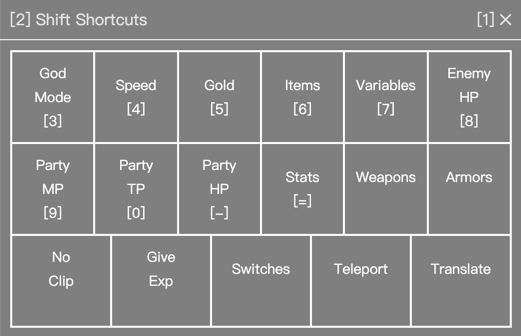
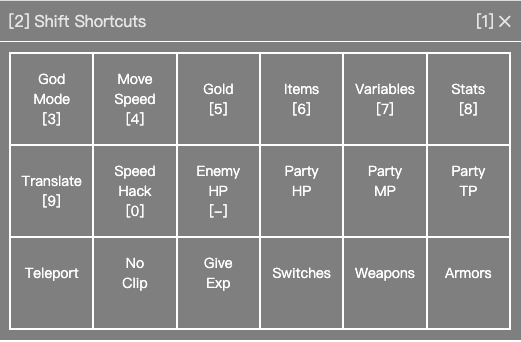
feat: speed hack

diff --git a/src/App.ts b/src/App.ts
@@ -5,7 +5,7 @@ import MV from './core/mv'
 import {space2line} from './core/dom'
 import Items from './module/Items'
 import Gold from './module/Gold'
-import Speed from './module/Speed'
+import MoveSpeed from './module/MoveSpeed'
 import Variables from './module/Variables'
 import PartyHP from './module/PartyHP'
 import PartyMP from './module/PartyMP'
@@ -19,6 +19,7 @@ import GiveExp from './module/GiveExp'
 import Switches from './module/Switches'
 import Teleport from './module/Teleport'
 import Translate from './module/Translate'
+import SpeedHack from './module/SpeedHack'
 
 // eslint-disable-next-line
 export type RenderClass<T extends Renderer = any> = T
@@ -55,7 +56,7 @@ export default class App extends Renderer<HTMLDivElement> {
       module: GodMode as RenderClass,
     },
     {
-      module: Speed as RenderClass,
+      module: MoveSpeed as RenderClass,
     },
     {
       module: Gold as RenderClass,
@@ -68,6 +69,12 @@ export default class App extends Renderer<HTMLDivElement> {
     },
     {
       module: Stat as RenderClass,
+    },
+    {
+      module: Translate as RenderClass,
+    },
+    {
+      module: SpeedHack as RenderClass,
     },
     {
       module: EnemyHP as RenderClass,
@@ -83,9 +90,6 @@ export default class App extends Renderer<HTMLDivElement> {
     },
     {
       module: Teleport as RenderClass,
-    },
-    {
-      module: Translate as RenderClass,
     },
     {
       module: NoClip as RenderClass,
@@ -187,7 +191,7 @@ export default class App extends Renderer<HTMLDivElement> {
   }
 
   private _shiftShortcuts = () => {
-    const maxFactor = Math.floor(App.Modules.length / App.ModulesKeymaps.length)
+    const maxFactor = Math.floor(App.Modules.length / App.ModulesKeymaps.length) - 1
     this._moduleIndexFactor = this._moduleIndexFactor >= maxFactor ? 0 : (this._moduleIndexFactor + 1)
     this._showHome()
   }

diff --git a/src/component/AmountSelector.ts b/src/component/AmountSelector.ts
@@ -73,31 +73,32 @@ export default class AmountSelector extends Renderer<HTMLDivElement> {
 
   constructor(props?: IAmountSelectorProps) {
     super()
-    this.props = props || {}
 
-    this.props.precision = (this.props.precision || 0) < 0 ? 0 : this.props.precision
-    this.props.keymap = this.props.keymap || AmountSelector.KeyMap
+    this.props = props = props || {}
 
-    this.props.increaseFn = this.props.increaseFn || AmountSelector.defaultIncreaseFn
-    this.props.decreaseFn = this.props.decreaseFn || AmountSelector.defaultDecreaseFn
+    props.precision = (props.precision || 0) < 0 ? 0 : props.precision
+    props.keymap = props.keymap || AmountSelector.KeyMap
+    props.keymap = props.keymap || AmountSelector.KeyMap
+    props.increaseFn = props.increaseFn || AmountSelector.defaultIncreaseFn
+    props.decreaseFn = props.decreaseFn || AmountSelector.defaultDecreaseFn
 
-    this.input.value = this.props.default || ''
+    this.input.value = (props.default === undefined ? '' : props.default)
 
     const inputDom = this.input.render() as HTMLInputElement
     inputDom.addEventListener('change', this._onChange)
     inputDom.classList.add('input')
     inputDom.type = 'number'
     inputDom.style.textAlign = 'center'
-    if (this.props.readOnly) {
-      inputDom.readOnly = this.props.readOnly
+    if (props.readOnly) {
+      inputDom.readOnly = props.readOnly
       inputDom.style.borderColor = 'transparent'
     }
 
     this.row = new ScrollSelect({
-      keymap: this.props.keymap,
+      keymap: props.keymap,
       leftText: '-',
       rightText: '+',
-      ...this.props.scrollSelectorProps,
+      ...props.scrollSelectorProps,
       center: inputDom,
       onLeft: this._onLess,
       onRight: this._onMore,

diff --git a/src/module/MoveSpeed.ts b/src/module/MoveSpeed.ts
@@ -3,13 +3,13 @@ import ScrollSelect from '../component/ScrollSelect'
 import AmountSelector from '../component/AmountSelector'
 import Switch from '../component/Switch'
 
-export default class Speed extends Renderer<HTMLDivElement> {
+export default class MoveSpeed extends Renderer<HTMLDivElement> {
 
   static KeyMap = {
     speedLock: KEY_MAPS.Digit7,
   }
 
-  static MyName = 'Speed'
+  static MyName = 'Move Speed'
 
   private static readonly DEFAULT_SPEED = 4
 
@@ -33,7 +33,7 @@ export default class Speed extends Renderer<HTMLDivElement> {
       // Speed.speed = $gamePlayer._moveSpeed
       Object.defineProperty($gamePlayer, '_moveSpeed', {
         configurable: true,
-        get: () => window.__cheat_speed || Speed.DEFAULT_SPEED,
+        get: () => window.__cheat_speed || MoveSpeed.DEFAULT_SPEED,
         set: (value: number) => {
           if (!window.__cheat_speedLocked) {
             window.__cheat_speed = value
@@ -47,7 +47,7 @@ export default class Speed extends Renderer<HTMLDivElement> {
     super()
 
     if (window.__cheat_speed === undefined) {
-      window.__cheat_speed = $gamePlayer._moveSpeed || Speed.DEFAULT_SPEED
+      window.__cheat_speed = $gamePlayer._moveSpeed || MoveSpeed.DEFAULT_SPEED
     }
 
     this.amount = new AmountSelector({
@@ -79,7 +79,7 @@ export default class Speed extends Renderer<HTMLDivElement> {
     this.speedLocker = new Switch({
       label: 'Lock Speed',
       default: window.__cheat_speedLocked,
-      keymap: Speed.KeyMap.speedLock,
+      keymap: MoveSpeed.KeyMap.speedLock,
       onHTML: 'locked',
       offHTML: 'unlocked',
       onChange: value => {

diff --git a/src/module/SpeedHack.ts b/src/module/SpeedHack.ts
@@ -1,0 +1,59 @@
+import {Renderer} from '../core/renderer'
+import AmountSelector from '../component/AmountSelector'
+import ScrollSelect from '../component/ScrollSelect'
+
+export default class SpeedHack extends Renderer<HTMLDivElement> {
+  static MyName = 'Speed Hack'
+
+  private _timerId = -1
+
+  private readonly countSelector = new AmountSelector({
+    default: 0,
+    precision: 0,
+    min: 0,
+    max: 1000,
+    keymap: ScrollSelect.KeyMap34,
+    increaseFn: v => v + 50,
+    decreaseFn: v => v - 50,
+    onChange: () => {
+      this._render()
+    },
+  })
+
+  private readonly _render = () => {
+    clearTimeout(this._timerId)
+    const count = this.countSelector.value
+    if (count > 0) {
+      this._timerId = setTimeout(() => {
+        SceneManager.updateScene()
+        this._render()
+      }, 1000 / count) as unknown as number
+    }
+  }
+
+  constructor() {
+    super()
+
+    // this.render()
+  }
+
+  dispose() {
+    super.dispose()
+
+    this.countSelector.dispose()
+
+    clearTimeout(this._timerId)
+  }
+
+  render(): HTMLDivElement {
+    const container = document.createElement('div')
+
+    const label = document.createElement('div')
+    label.innerHTML = '<b>This is how many more render count per second base on the original fps. <br>This may cause frame drop. <br>Leaving this module will stop speed-hacking.</b>'
+    container.append(label)
+
+    container.append(this.countSelector.render())
+
+    return container
+  }
+}

diff --git a/src/module/GodMode.ts b/src/module/GodMode.ts
@@ -87,7 +87,7 @@ export default class GodMode extends Renderer {
     const notice = document.createElement('div')
     notice.style.color = 'red'
     notice.style.paddingBottom = '10px'
-    notice.innerHTML = 'May cause "Memory Leak", restart game to solve this'
+    notice.innerHTML = 'This function may cause "Memory Leak", restart game to solve this problem for now.'
     container.append(notice)
 
     container.append(this.actor.render())

diff --git a/src/mv.d.ts b/src/mv.d.ts
@@ -144,6 +144,7 @@ declare global {
   }
 
   class Game_Weapon extends Game_Item {}
+
   class Game_Armor extends Game_Item {}
 
   class Data_System {
@@ -167,6 +168,10 @@ declare global {
 
   class SoundManager {
     static playSystemSound(soundIndex?: number): void
+  }
+
+  class SceneManager {
+    static updateScene: () => void
   }
 }
 

diff --git a/README.md b/README.md
@@ -4,29 +4,20 @@
 ### ⚠⚠⚠ Still in TESTING, Save Game Frequently ⚠⚠⚠
 ---
 
+### Executable `patcher` is not supported in macOS yet
+
 ### Screenshots
 ![Index](screenshots/home.png)
-![Translate](screenshots/translate.png)
 
 ### Features
 - Keyboard and Mouse both supported 
 - Modules
   - God Mode: `whoisyourdaddy`
-  - Speed: Move speed cheat, not game running speed; [Cheat Engine](https://www.cheatengine.org/) supports speed hack
+  - Move Speed
   - Gold
   - Items
-  - Weapons
-  - Armors
   - Variables
-  - No Clip
-  - Enemy HP: manipulate HP of enemies in battle
-  - Party MP: manipulate MP of teammates and hero itself in battle
-  - Party TP: manipulate TP of teammates and hero itself in battle
-  - Party HP: manipulate HP of teammates and hero itself in battle
   - Status: manipulate Max HP, max MP, attack, defense and more
-  - Give Experience
-  - Switches: Toggle boolean variables
-  - Teleport
   - Translate
     - Open source online translation services: [LibreTranslate](https://github.com/LibreTranslate/LibreTranslate#mirrors)
     - Draw japanese to translate: [Google Translate](https://translate.google.com/?sl=ja&tl=en&op=translate), [jisho](https://jisho.org/#handwriting)
@@ -34,20 +25,31 @@
     - ✔ Choices translate
     - ❌ Menu or Item translate
     - ❌ Image text translate
+  - Speed Hack: [Cheat Engine](https://www.cheatengine.org/) also supports speed hack, but CE may cause program freeze (nwjs base game, but Unity3D is completely fine)
+  - Enemy HP: manipulate HP of enemies in battle
+  - Party HP: manipulate HP of teammates and hero itself in battle
+  - Party MP: manipulate MP of teammates and hero itself in battle
+  - Party TP: manipulate TP of teammates and hero itself in battle
+  - Teleport
+  - No Clip
+  - Give Experience
+  - Switches: Toggle boolean variables
+  - Weapons
+  - Armors
 
 ### Installation
 - Download release zip
-- Way 1, traditional
+- Traditional method
   - Download Cheat Plugin patch at [GitHub](https://github.com/emerladCoder/RPG-Maker-MV-Cheat-Menu-Plugin)
   - Unzip these zips
-  - Copy everything in release zip into `Cheat_Menu/`
+  - Copy everything in release zip into `Cheat_Menu/`, and allow overriding existing files
   - Copy all files inside `Cheat_Menu/` into game folder
   - Run `MVPluginPatcher.exe`
-- Way 2, with JavaScript interpreter
+- New method, with JavaScript interpreter
   - Unzip release zip
   - Copy all files into game folder
   - Run `patcher.exe`
-- Start game, then load a game or start a new game, then press `1` to display cheat menu 
+- Start Game, wait for 1 second at least, then load an existing save or start a new game, then press `1` to display cheat menu
 
 ### FAQ
 - After double-clicking `MVPluginPatcher.exe`, there is a black window keeps showing
